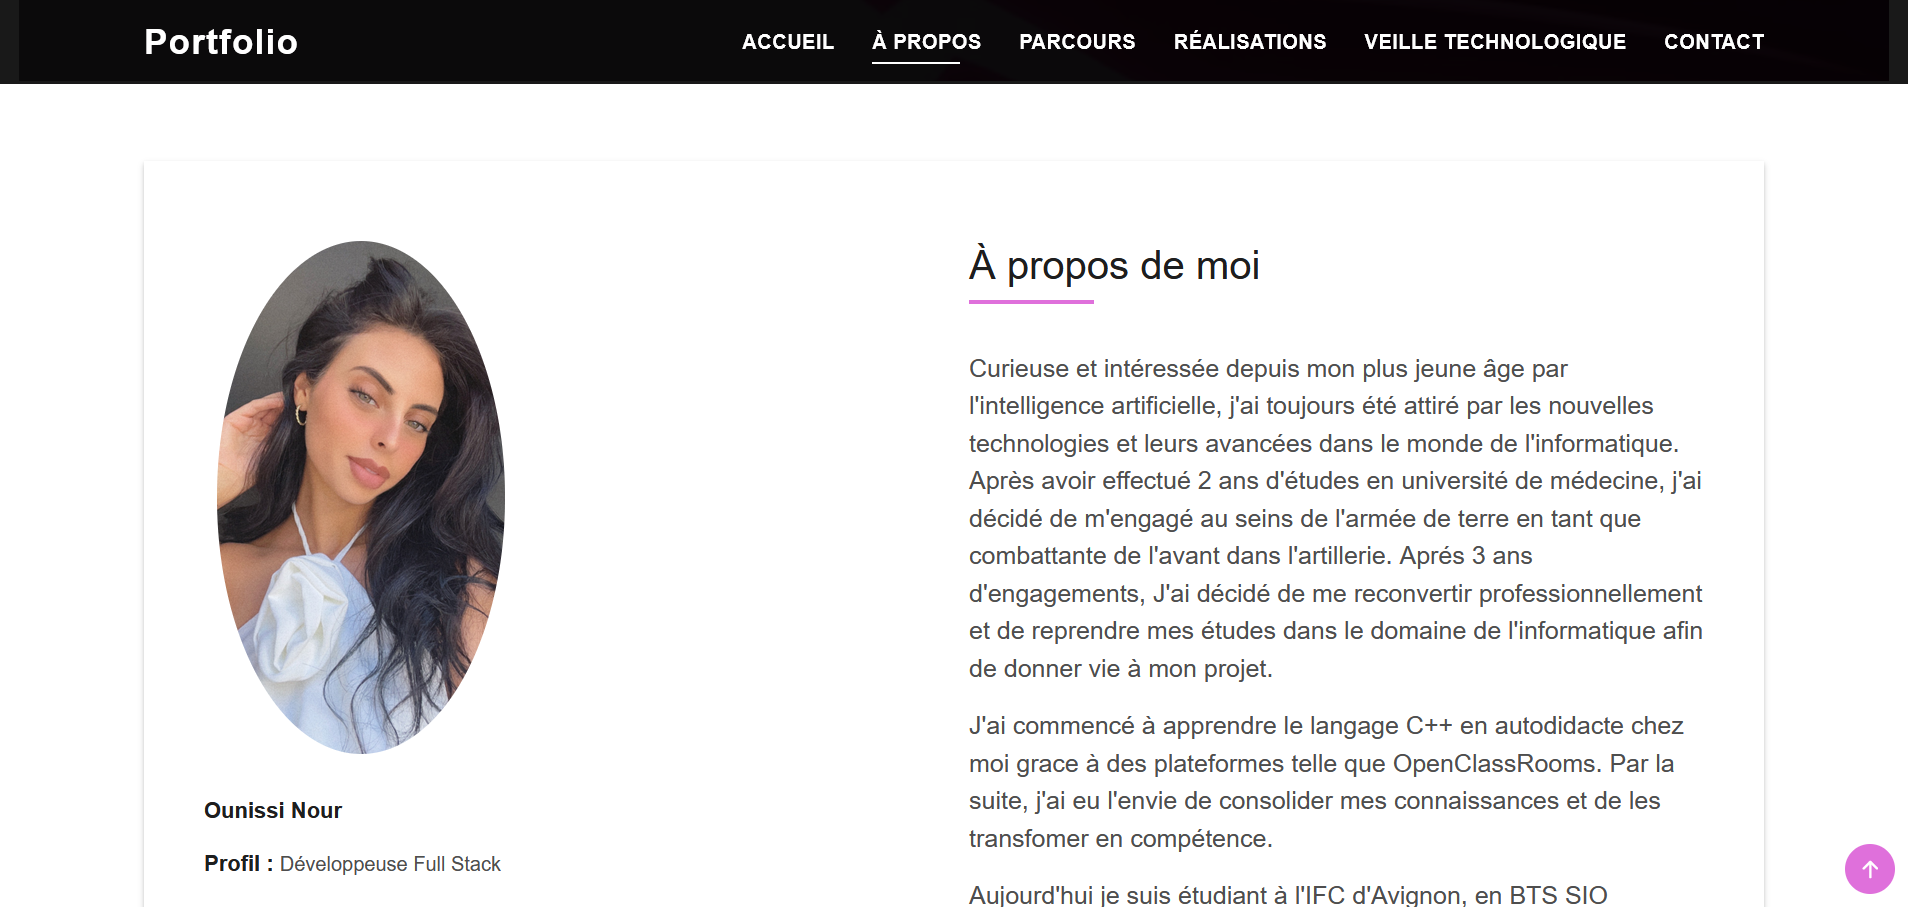
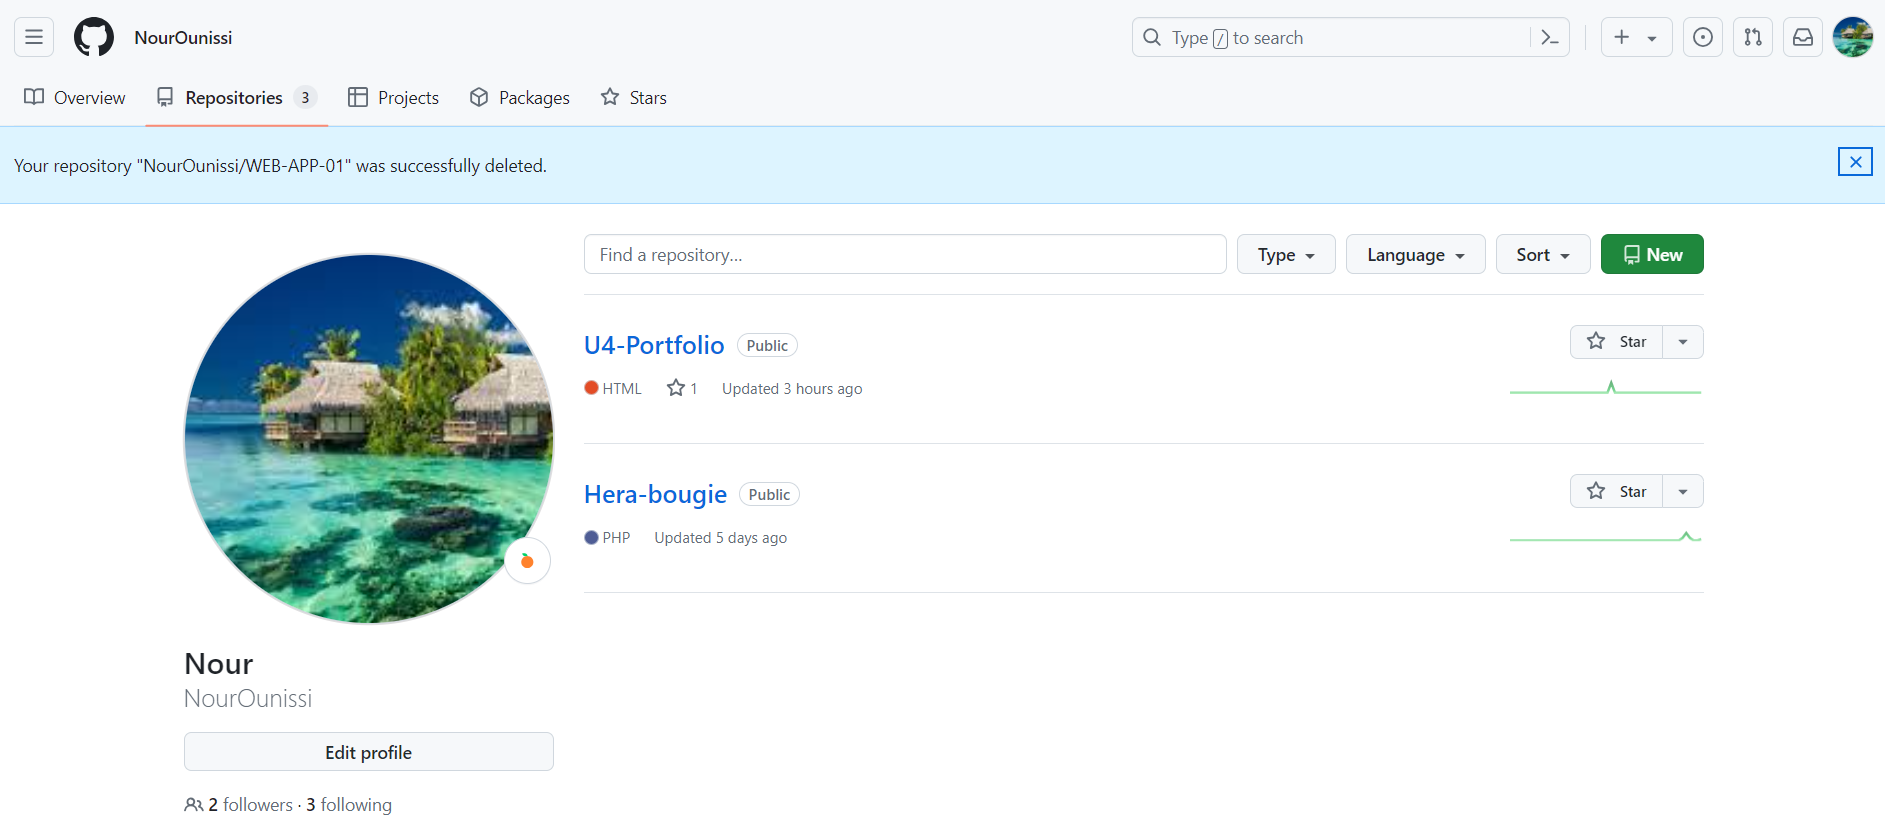
miseajour

diff --git a/index.html b/index.html
@@ -74,7 +74,7 @@
                   <div class="row">
                     <div class="col-sm-6 col-md-5">
                       <div class="about-img">
-                        <img src="assets/img/me.jpg" class="img-fluid b-shadow-a image_profil" alt="Photo de moi">
+                        <img src="assets/img/profil2.JPG" class="img-fluid b-shadow-a image_profil" alt="Photo de moi">
                       </div>
                     </div>
                     <div class="row">
@@ -295,7 +295,7 @@
               </div>
             </div>
           </div>
-          <!-- Card Projet 1 Formation -->
+          <!-- Card Projet Deploiment -->
           <div class="col-md-4">
             <div class="work-box">
               <a href="projet1_formation.html" data-gallery="portfolioGallery" class="portfolio-lightbox">
@@ -392,7 +392,7 @@
             <div class="work-box">
               <a href="projet2_formation.html" data-gallery="portfolioGallery" class="portfolio-lightbox">
                 <div class="work-img">
-                  <img src="assets/img/Site_Hera.png" alt="Image Site Hera Bougie" class="img-fluid">
+                  <img src="assets/img/extranet_hera.png" alt="Image Site Hera Bougie" class="img-fluid">
                 </div>
               </a>
               <div class="work-content">
@@ -416,13 +416,13 @@
             <div class="work-box">
               <a href="projet3_formation.html" data-gallery="portfolioGallery" class="portfolio-lightbox">
                 <div class="work-img">
-                  <img src="assets/img/extranet_hera.png" alt="" class="img-fluid">
+                  <img src="assets/img/logiciel1.png" alt="" class="img-fluid">
                 </div>
               </a>
               <div class="work-content">
                 <div class="row">
                   <div class="col-sm-8">
-                    <h2 class="w-title">Extranet Hera Projet</h2>
+                    <h2 class="w-title">Logiciel Hera Projet</h2>
                   </div>
                   <div class="col-sm-4">
                     <div class="w-like">
@@ -440,13 +440,13 @@
             <div class="work-box">
               <a href="projet4_formation.html" data-gallery="portfolioGallery" class="portfolio-lightbox">
                 <div class="work-img">
-                  <img src="assets/img/laravel1.png" alt="Framework Laravel" class="img-fluid">
+                  <img src="assets/img/blocnote1.png" alt="Framework Laravel" class="img-fluid">
                 </div>
               </a>
               <div class="work-content">
                 <div class="row">
                   <div class="col-sm-8">
-                    <h2 class="w-title">FrameWork Laravel</h2>
+                    <h2 class="w-title">Bloc Note</h2>
                   </div>
 
 
@@ -458,12 +458,34 @@
                 </div>
               </div>
             </div>
-          </div>
+          </div>  
 
 
-
-
+<!-- Card Projet Deploiment -->
+<div class="col-md-4">
+  <div class="work-box">
+    <a href="projet5_formation.html" data-gallery="portfolioGallery" class="portfolio-lightbox">
+      <div class="work-img">
+        <img src="assets/img/o2switch2.png" alt="Image sous domaines GitHub" class="img-fluid">
+      </div>
+    </a>
+    <div class="work-content">
+      <div class="row">
+        <div class="col-sm-8">
+          <h2 class="w-title">Déploiement avec O2Switch</h2>
         </div>
+        <div class="col-sm-4">
+          <div class="w-like">
+            <a href="projet5_formation.html"> <span class="bi bi-chevron-double-right"></span></a>
+          </div>
+        </div>
+      </div>
+    </div>
+  </div>
+</div>
+
+
+
     </section><!-- End Windev Section -->
 
 

diff --git a/projet3_formation.html b/projet3_formation.html
@@ -29,7 +29,7 @@
     <div class="hero-content display-table">
       <div class="table-cell">
         <div class="container">
-          <h2 class="hero-title mb-4">Site Hera Bougie</h2>
+          <h2 class="hero-title mb-4">Logiciel Hera Bougie</h2>
         </div>
       </div>
     </div>
@@ -48,22 +48,36 @@
               <div class="swiper-wrapper align-items-center">
 
                 <div class="swiper-slide">
-                  <a href=/// lien du site "https://.com/" ///
-                    target="_blank">
-                    <img src="assets/img/extranet_hera.png" alt="">
+                  <a href="hera-bougie@ifcsio2022"
+                  target="_blank">
+                    <img src="assets/img/logiciel1.png" alt="">
                   </a>
                 </div>
 
                 <div class="swiper-slide">
-                  <a href="assets/img/bd.png" target="_blank">
-                    <img src="assets/img/bd.png" alt="">
+                  <a href="" target="_blank">
+                    <img src="assets/img/logiciel2.png" alt="">
                   </a>
                 </div>
 
                 <div class="swiper-slide">
-                    <a href="assets/img/page_connexion.png"  
+                    <a href=""  
                       target="_blank">
-                      <img src="assets/img/page_connexion.png" alt="">
+                      <img src="assets/img/logiciel3.png" alt="">
+                    </a>
+                  </div>
+
+                  <div class="swiper-slide">
+                    <a href=""  
+                      target="_blank">
+                      <img src="assets/img/mld.svg" alt="">
+                    </a>
+                  </div>
+
+                  <div class="swiper-slide">
+                    <a href=""  
+                      target="_blank">
+                      <img src="assets/img/logicielcode2.png" alt="">
                     </a>
                   </div>
 
@@ -76,6 +90,7 @@
             <div class="portfolio-description">
               <h2>Plus de détails</h2>
               <ul>
+                <li><a href="https://hera-bougie@ifcsio2022.fr/" target="_blank">Lien du site</a></li>
                 <li>Site utilisant les données de l'organisation</li>
                 <li>Base de données </li>
                 <li>Connexion de l'utilisateur</li>

diff --git a/projet2_formation.html b/projet2_formation.html
@@ -49,18 +49,26 @@
               <div class="swiper-wrapper align-items-center">
 
                 <div class="swiper-slide">
-                  <a href= /// lien du site hera "https://site.com/"  /// 
-                    target="_blank">
+                  <a href="https://hera-bougie@ifcsio2022.fr/" target="_blank">
                     <img src="assets/img/Site_Hera.png" alt="">
                   </a>
                 </div>
-
+                
                 <div class="swiper-slide">
-                  <a href="assets/img/mld.svg" target="_blank">
-                    <img src="assets/img/bd.png" alt="">
-                  </a>
+                  <img src="assets/img/site1.png" alt="" />
+                </div>
+                
+                <div class="swiper-slide">
+                  <img src="assets/img/site2.png" alt="" />
                 </div>
 
+                <div class="swiper-slide">
+                  <img src="assets/img/mld.svg" alt="" />
+                </div>
+
+                <div class="swiper-slide">
+                  <img src="assets/img/sitecode.png" alt="" />
+                </div>
           
               </div>
               <div class="swiper-pagination"></div>
@@ -71,6 +79,7 @@
             <div class="portfolio-description">
               <h2>Plus de détails</h2>
               <ul>
+                <li><a href="https://hera-bougie@ifcsio2022.fr/" target="_blank">Lien du site</a></li>
                 <li>Site utilisant les données de l'organisation</li>
                 <li>Base de données </li>
               </ul>

diff --git a/projet5_formation.html b/projet5_formation.html
@@ -5,7 +5,7 @@
   <meta charset="utf-8">
   <meta content="width=device-width, initial-scale=1.0" name="viewport">
 
-  <title>Projet - Déploiement avec GitHub</title>
+  <title>Projet - Déploiement avec O2Switch</title>
   <meta content="" name="description">
   <meta content="" name="keywords">
 
@@ -32,7 +32,7 @@
     <div class="hero-content display-table">
       <div class="table-cell">
         <div class="container">
-          <h2 class="hero-title mb-4">Déploiement avec GitHub</h2>
+          <h2 class="hero-title mb-4">Déploiement avec O2Switch</h2>
         </div>
       </div>
     </div>
@@ -53,13 +53,13 @@
                 <div class="swiper-slide">
                   <a href="https://github.com/NourOunissi"
                     target="_blank">
-                    <img src="assets/img/github1.png" alt="GitHub">
+                    <img src="assets/img/o2switch1.png" alt="GitHub">
                   </a>
                 </div>
 
                 <div class="swiper-slide">
-                  <a href="assets/img/github2.png" target="_blank">
-                    <img src="assets/img/github2.png" alt="Page du sous domaine GitHub">
+                  <a href="assets/img/github1.png" target="_blank">
+                    <img src="assets/img/o2switch2.png" alt="Page du sous domaine GitHub">
                   </a>
                 </div>
 

diff --git a/projet4_formation.html b/projet4_formation.html
@@ -50,13 +50,13 @@
 
                                 <div class="swiper-slide">
 
-                                    <img src="assets/img/laravel1.png" alt="Laravel">
+                                    <img src="assets/img/blocnote1.png" alt="Laravel">
 
                                 </div>
 
                                 <div class="swiper-slide">
 
-                                    <img src="assets/img/laravel2png.png" alt="Image de type de beug">
+                                    <img src="assets/img/blocnote1.png" alt="Bloc Note">
 
                                 </div>
 
